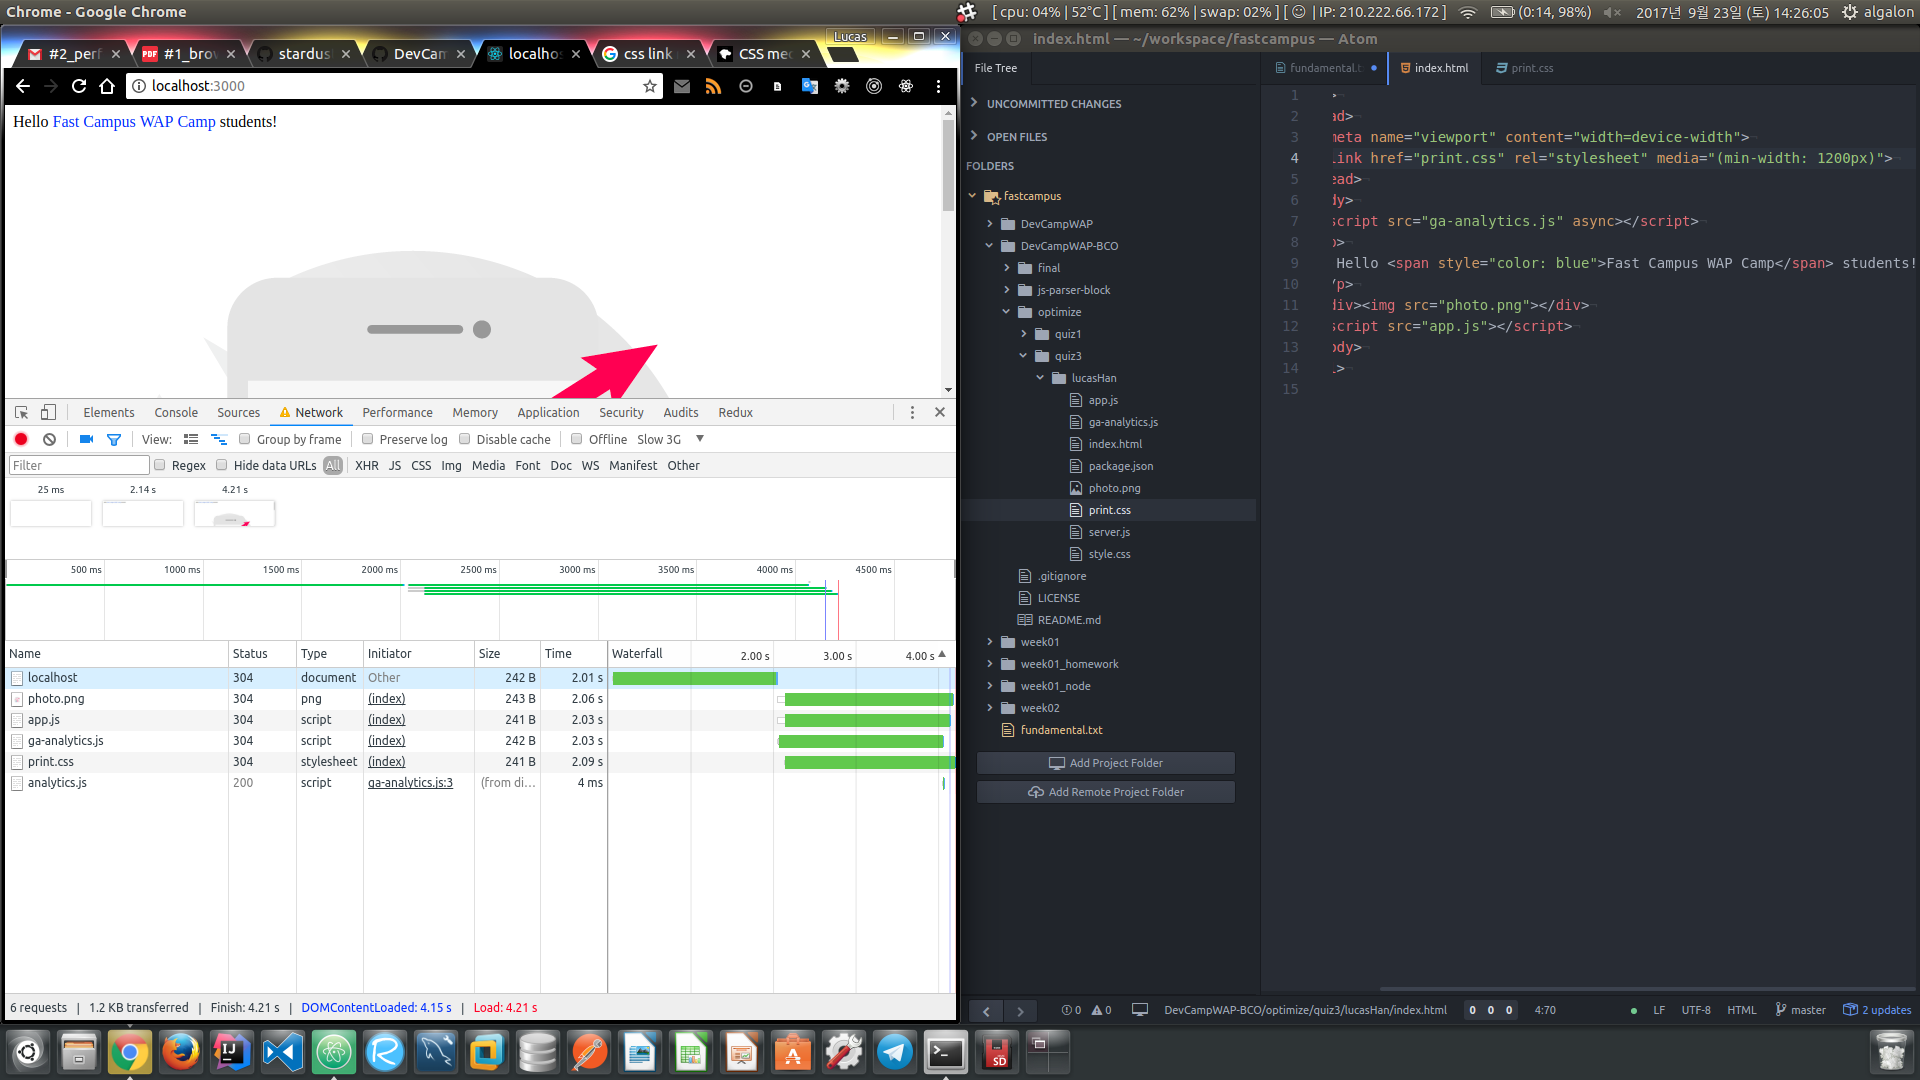
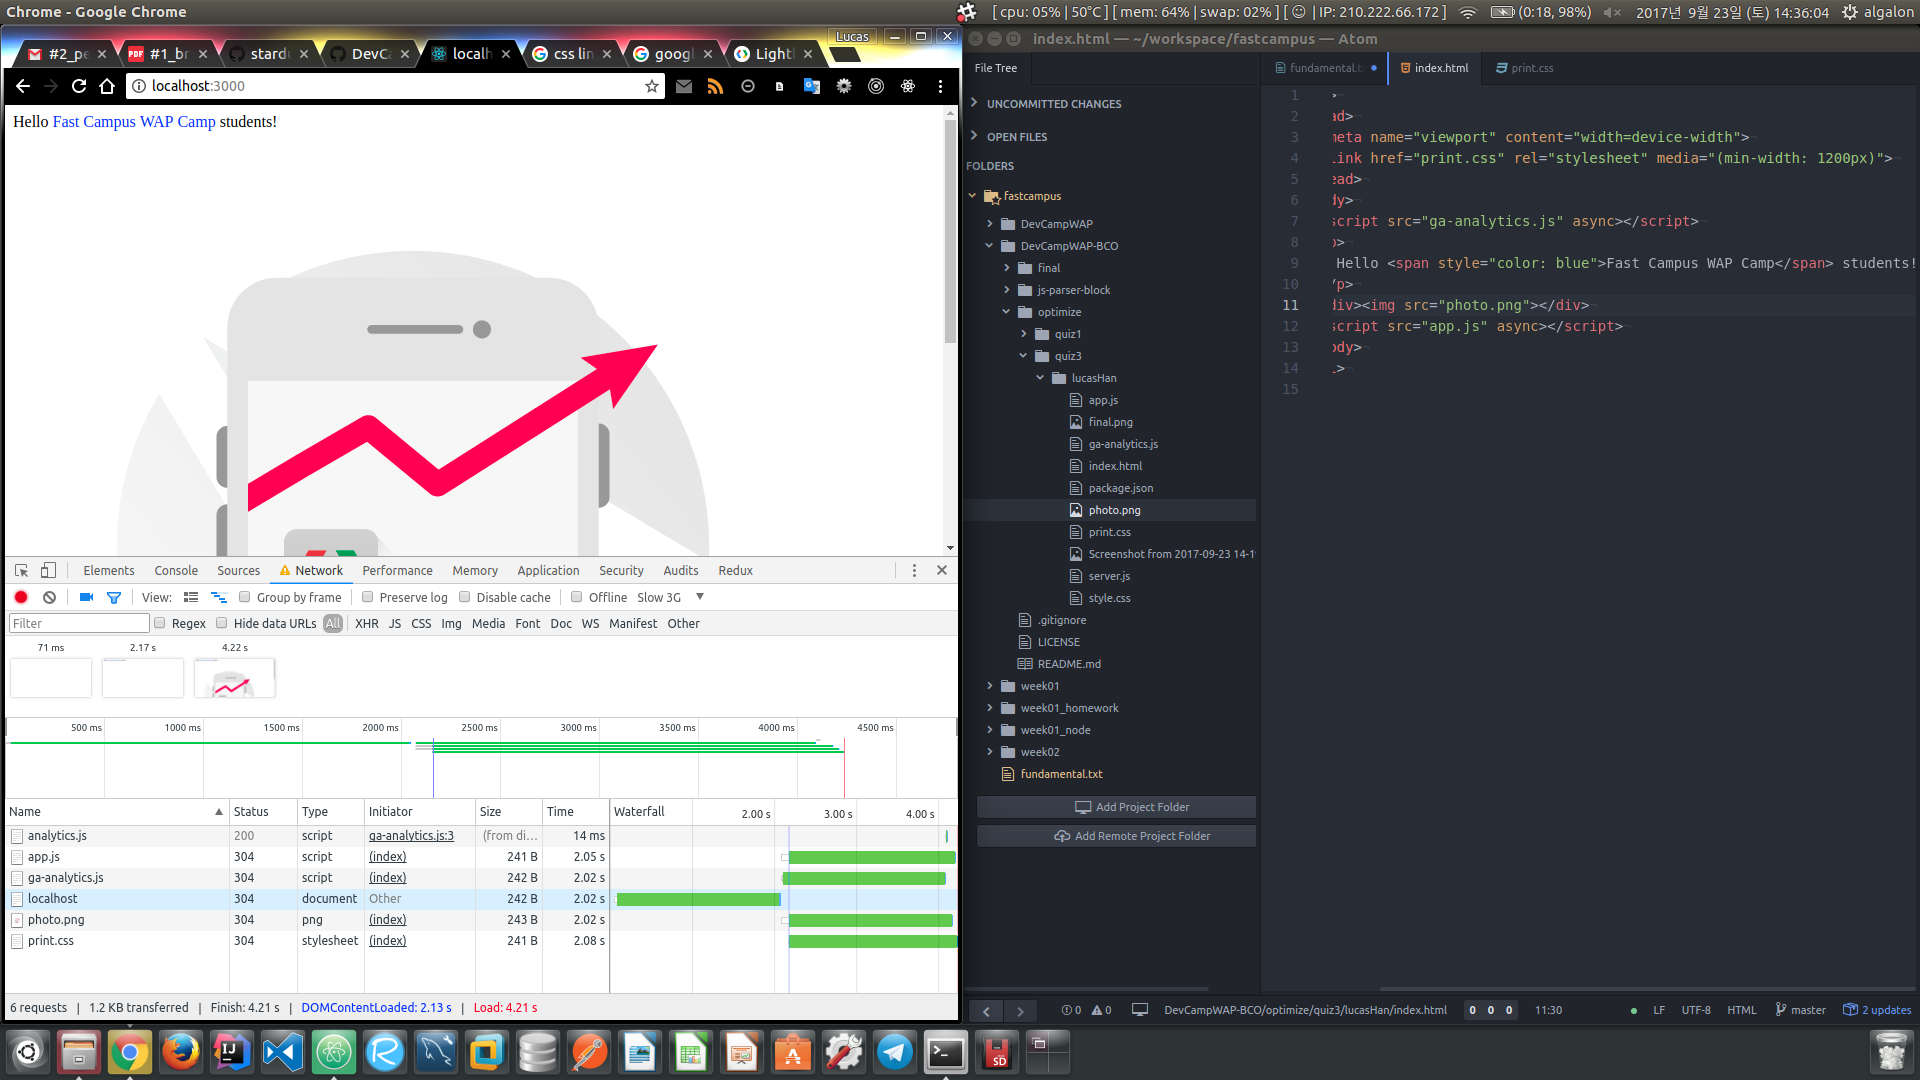
Revision optimize code.

diff --git a/optimize/quiz3/lucasHan/index.html b/optimize/quiz3/lucasHan/index.html
@@ -9,6 +9,6 @@
       Hello <span style="color: blue">Fast Campus WAP Camp</span> students!
     </p>
     <div><img src="photo.png"></div>
-    <script src="app.js"></script>
+    <script src="app.js" async></script>
   </body>
 </html>
